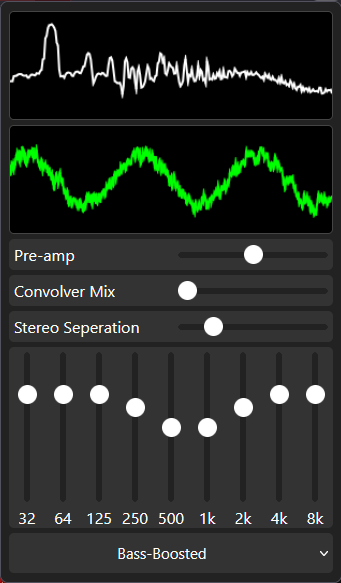
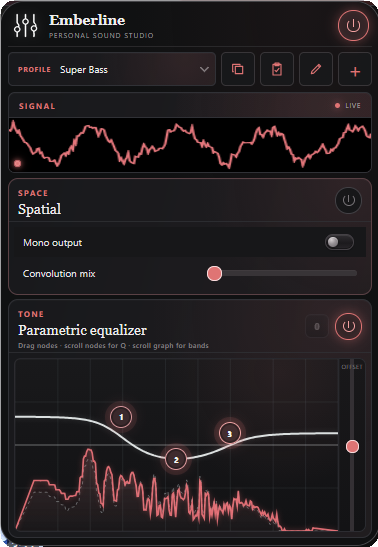
Refresh Emberline README

diff --git a/README.md b/README.md
@@ -1,39 +1,50 @@
 # Emberline
 
-A browser extension that injects an audio processing script into web pages, providing a customizable equalizer and convolver (reverb) effect for all audio elements. Designed for Firefox and Chrome using Manifest V3.
+A browser extension for shaping media playback with a parametric equalizer, spatial controls, named presets, and live audio visualizers. Emberline uses Manifest V3 and currently targets Firefox and Chromium-based browsers.
 
-Available on [Firefox](https://addons.mozilla.org/en-US/firefox/addon/l33s-audio-equalizer/) with OperaGX support coming soon.
+Install the published release from [Firefox Add-ons](https://addons.mozilla.org/en-US/firefox/addon/l33s-audio-equalizer/).
 
 ![Screenshot of the Emberline popup](example.png)
 
 ## Features
-- **9-band Equalizer**: Fine-tune audio frequencies from 32Hz to 8kHz.
-- **Parametric curve editor**: Drag colored nodes across a logarithmic frequency graph with an integrated live spectrum.
-- **Popup EQ controls**: Add or remove bands directly and scroll a band node to adjust that filter's Q.
-- **Extension settings**: EQ master offset and mono/stereo output stay separate from effect widgets.
-- **Effect widgets**: Convolution and parametric EQ have independent illuminated bypass controls.
-- **Reverb Slider**: Simulates a car's interior using a built-in impulse response sample.
-- **Stereo Widener**: Puts you in the song.
-- **Basic Presets**: Change all of the settings at the same time.
+
+- **Parametric equalizer**: Shape 2–16 freely positioned bands on a logarithmic frequency graph, with low- and high-shelf endpoints.
+- **Direct graph controls**: Drag nodes for frequency and gain, scroll a node for Q, and scroll the graph to change the band count.
+- **Live analysis**: Compare source and processed spectra alongside a time-domain signal display.
+- **Visualizer hibernation**: Suspend analyzer streaming with the small LED control; streams also stop automatically when the popup closes.
+- **Spatial controls**: Blend a built-in convolution impulse response and switch the output to mono.
+- **Master EQ offset**: Move the complete response vertically or bake the offset into the filter curve.
+- **Named presets**: Save, rename, delete, copy, and import complete configurations.
+- **Per-site power**: Prevent Emberline from initializing on incompatible or DRM-protected sites; Spotify is disabled by default.
+- **Efficient lifecycle**: Audio processing and convolution assets initialize only when they are needed.
 
 ## Installation
 1. Clone or download this repository.
-2. Build the extension (optional, for TypeScript changes):
-   ```
+2. Install dependencies and build the extension:
+
+   ```sh
    npm install
    npm run build
-   npm run start (Requires Firefox configured with a profile named "Testing" to be setup.)
    ```
+
+   To launch the development build, create a Firefox profile named `Testing`, then run:
+
+   ```sh
+   npm run start
+   ```
+
 3. Load the `extension/` directory as an unpacked extension in your browser:
+
    - **Firefox**: Use [web-ext](https://github.com/mozilla/web-ext) or load as a temporary add-on.
-   - **Chrome**: Go to `chrome://extensions`, enable Developer Mode, and load the `src/` folder.
+   - **Chrome/Chromium**: Open `chrome://extensions`, enable Developer Mode, and load the `extension/` folder.
 
 ## Signing
 
 Copy `.env.example` to `.env`, set `WEB_EXT_API_KEY` and `WEB_EXT_API_SECRET`
-to your Mozilla Add-ons API credentials, then run `npm run sign`. The npm
-scripts load `.env` with Node.js, so use Node.js 22.9 or newer. The `.env` file
-is ignored by Git; never commit credentials to the repository.
+to your Mozilla Add-ons API credentials, then run `npm run sign`. This submits a
+listed release to Mozilla Add-ons. The npm scripts load `.env` with Node.js, so
+use Node.js 22.9 or newer. The `.env` file is ignored by Git; never commit
+credentials to the repository.
 
 Run `npm run sign:dry-run` to verify that both credential variables are present,
 build the extension, and lint it locally. This does not contact AMO or validate
@@ -41,7 +52,11 @@ the credentials; `npm run sign` submits the extension for signing.
 
 ## Personalizing the mixer
 
-Use the extension popup to shape the equalizer, adjust spatial controls, and
-manage named presets. Presets include convolution, stereo mode, EQ master
-offset, and the EQ curve, Q, shelf behavior, band count, and exact frequencies.
-Preset changes apply immediately and preferences are stored locally in the browser.
+Use the popup to shape the equalizer, adjust spatial controls, and manage named
+presets. Presets include convolution, output mode, EQ master offset, gain, Q,
+shelf behavior, band count, and exact frequencies. Changes apply immediately
+and preferences are stored locally in the browser.
+
+Some protected media sites do not permit Web Audio interception. Use the master
+power button in the popup header to disable Emberline for the current hostname;
+the tab reloads so the page can start again without an attached audio graph.
